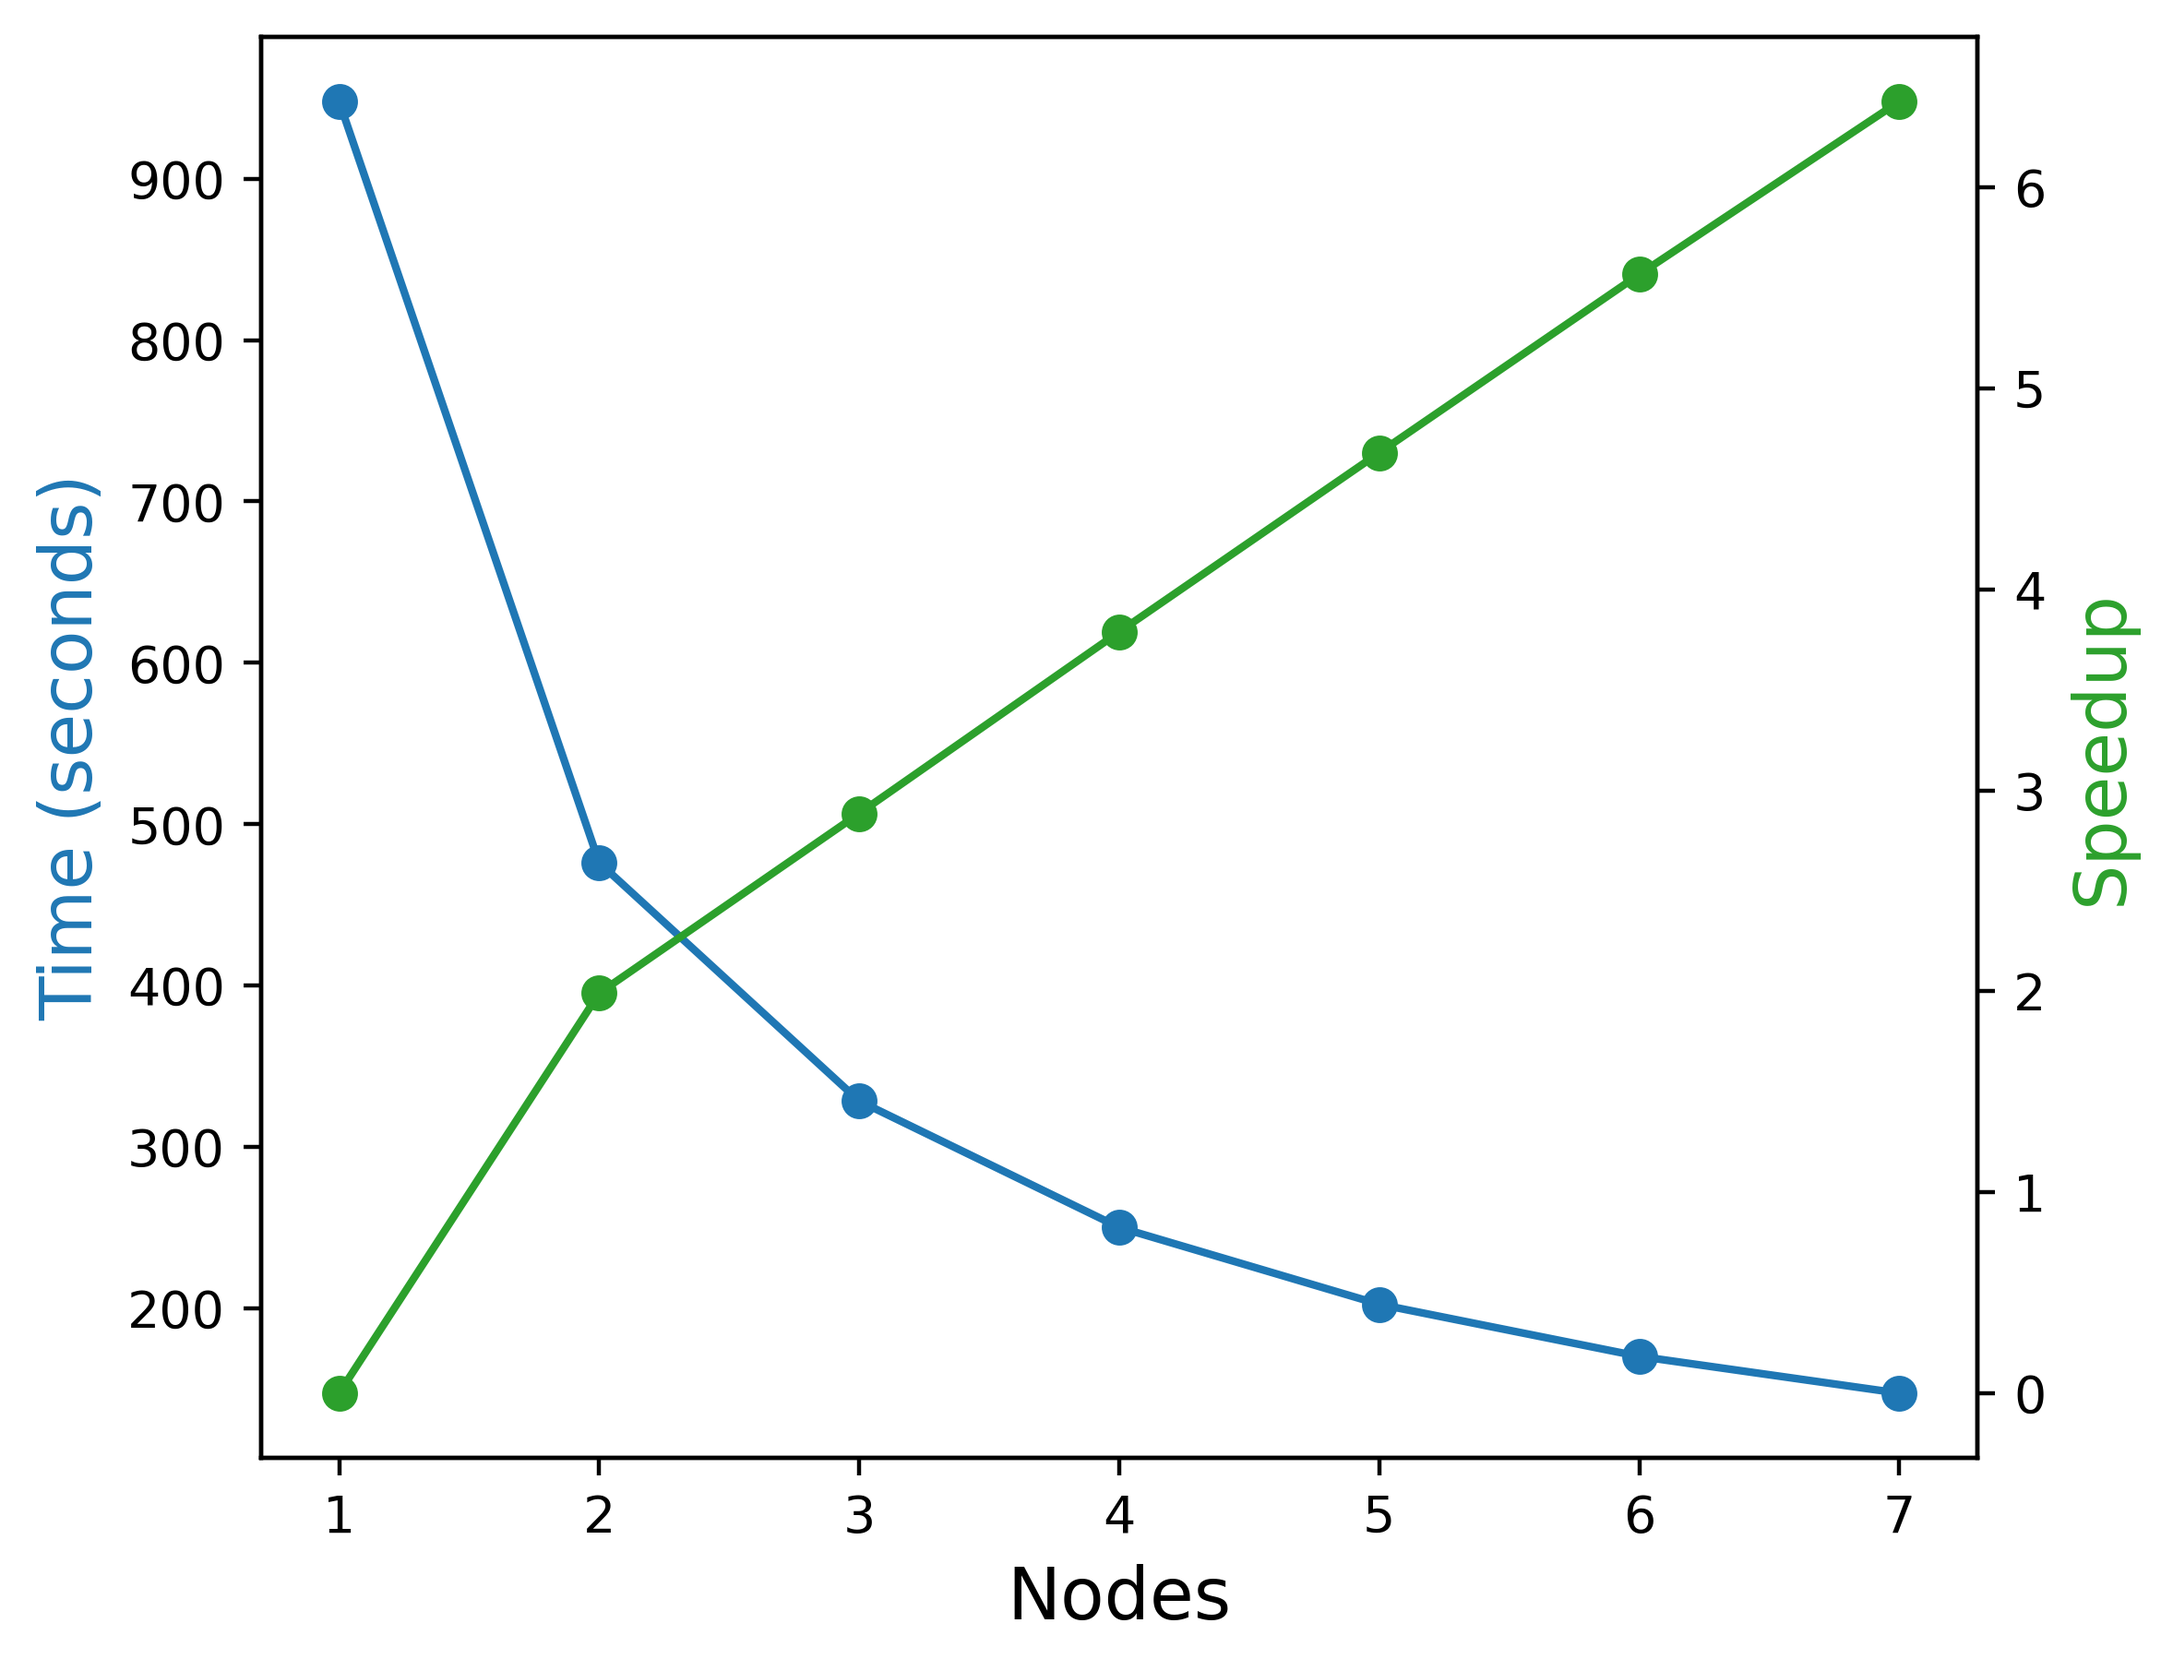
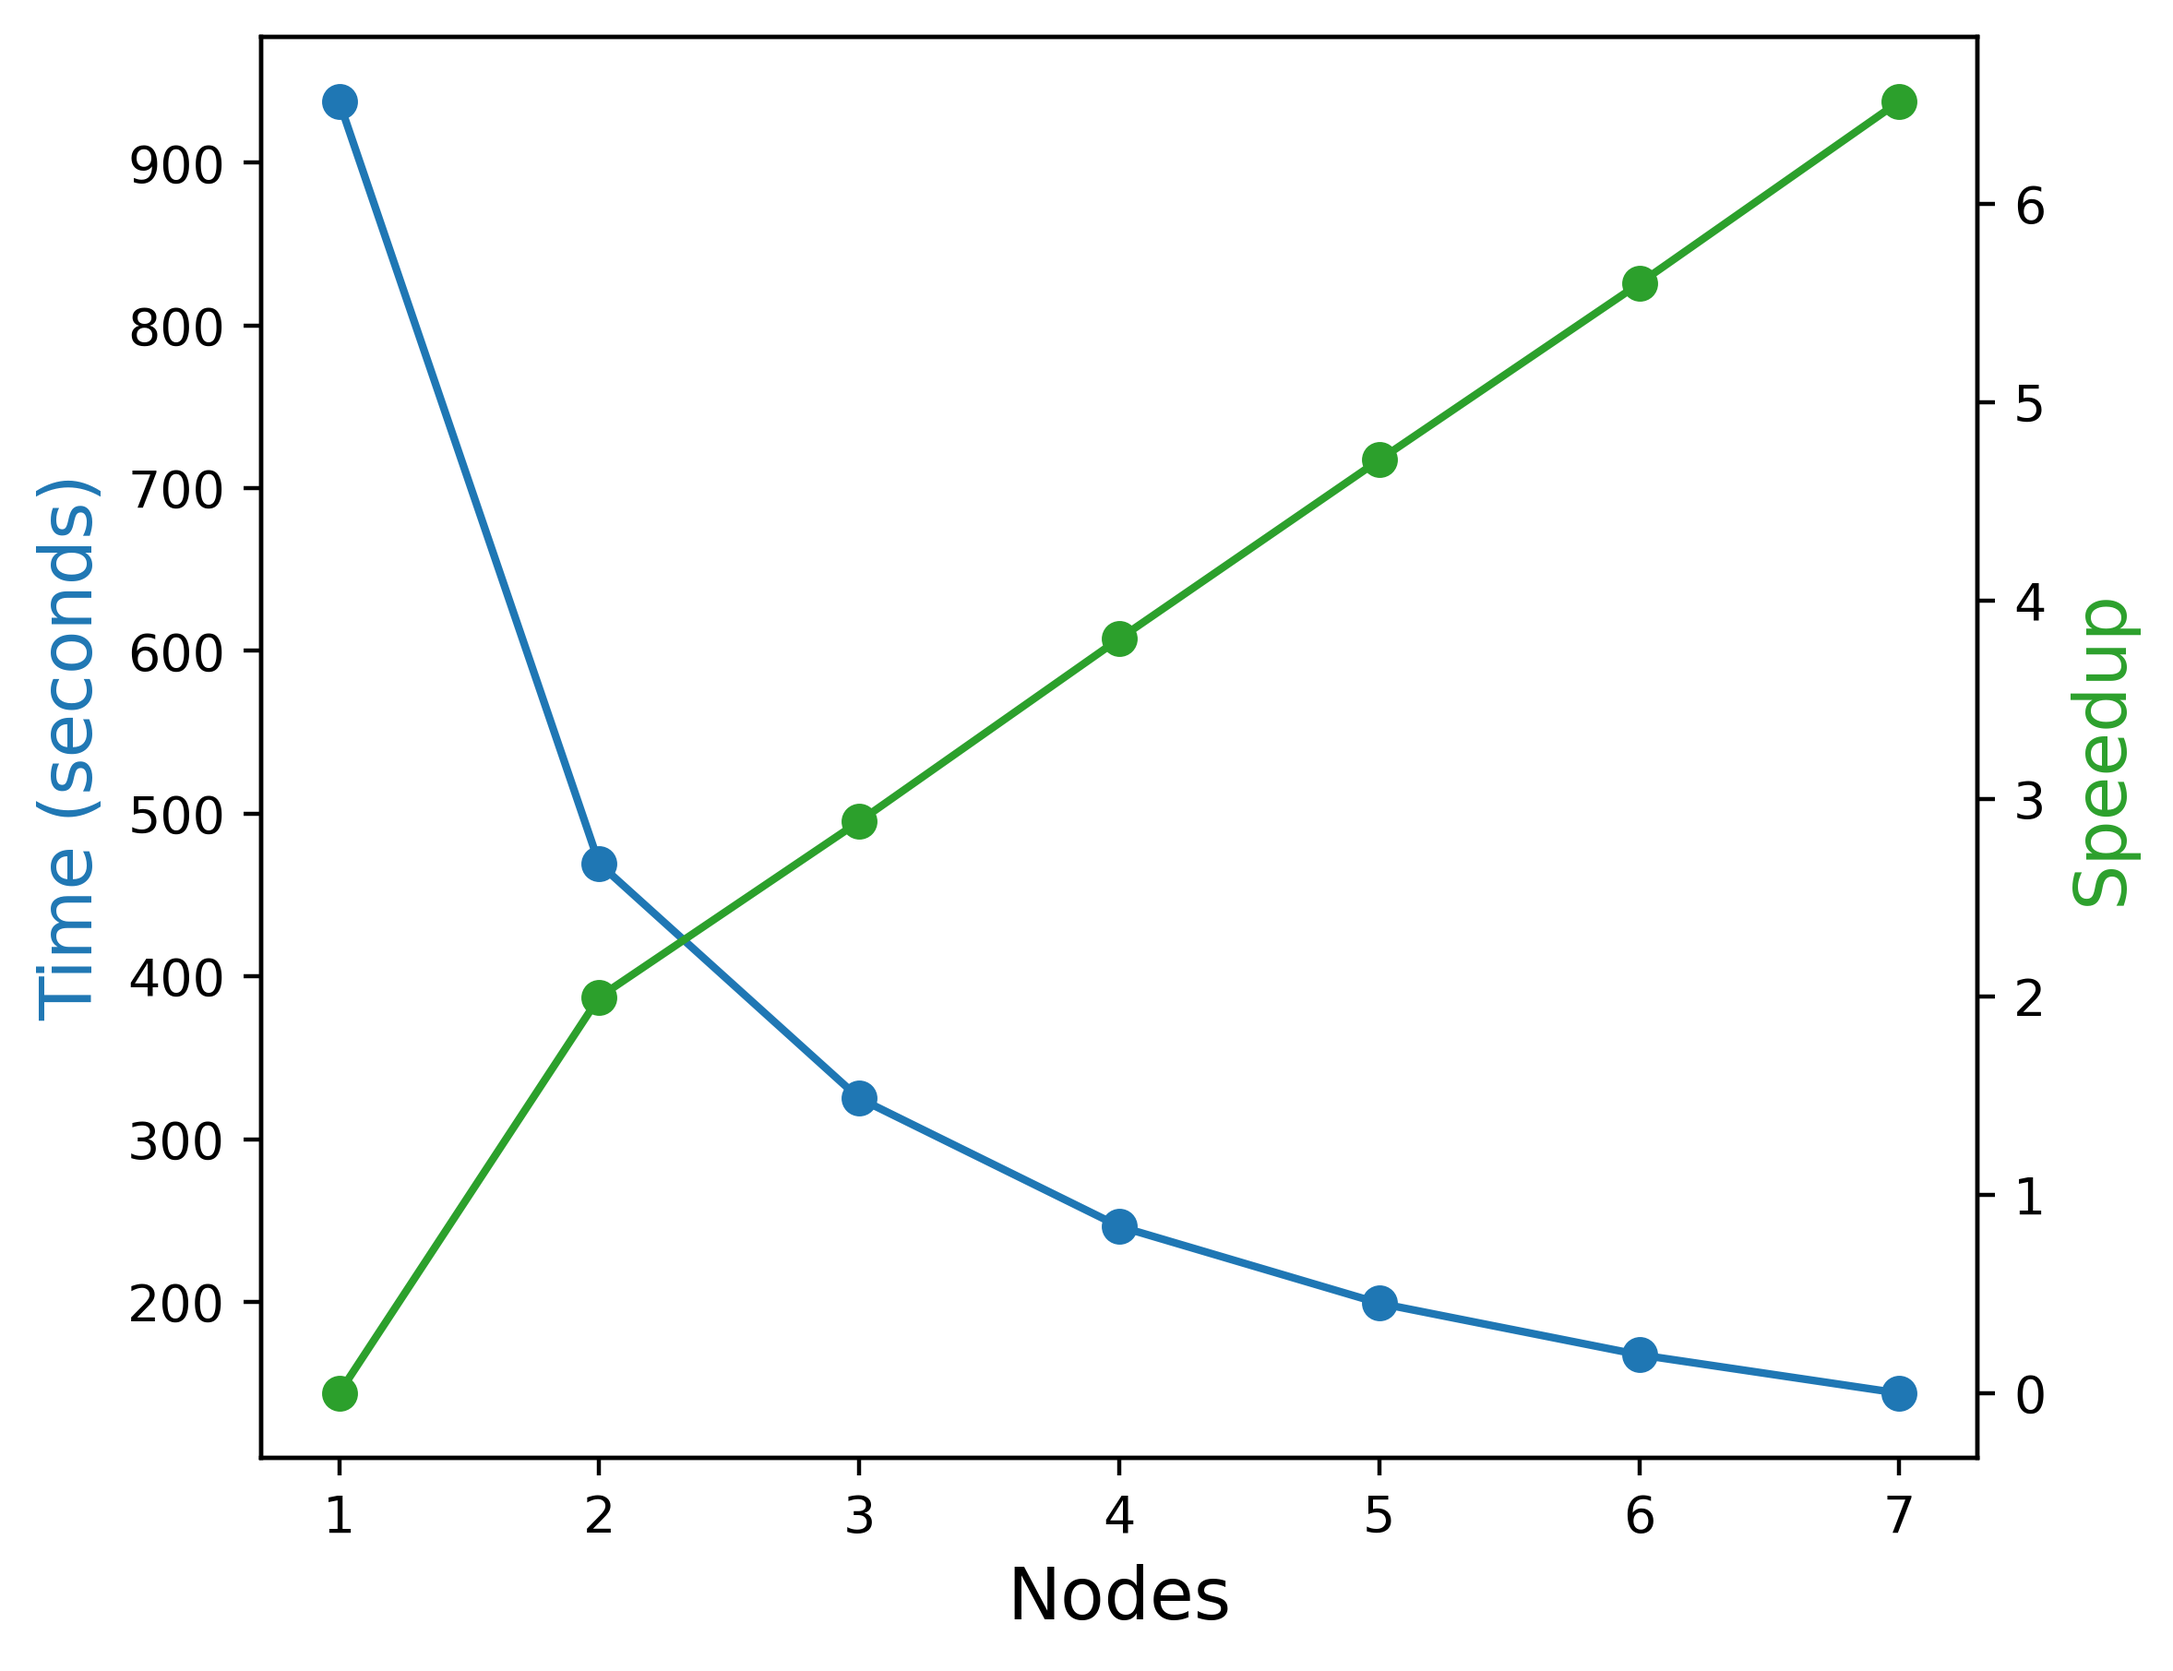
redo multinode run with 40 cores, get basically same result

diff --git a/scripts/avg.py b/scripts/avg.py
@@ -1,0 +1,99 @@
+#!/usr/bin/env python3
+import sys
+
+if len(sys.argv) < 2:
+	print("You need to supply ./avg.py <input-files> <output-file>")
+	sys.exit(1)
+
+input_files = []
+for i in sys.argv[1:len(sys.argv)-1]:
+	input_files.append(i)
+
+output_file=sys.argv[len(sys.argv)-1]
+
+
+print(f"Gonna average these files: {input_files} -> {output_file}")
+
+
+def process_line(l:str) -> list:
+	ls=l.split("|")
+	if len(ls) < 3 or l[0] != '|':
+		return []
+	
+	data=[]
+	i=1
+	while i < len(ls)-1:
+		data.append(ls[i])
+		i += 1
+	return data
+	
+
+def file_to_dict(f: str) -> list:
+	out=[]
+	with open(f, 'r') as file:
+		for line in file:
+			lp=process_line(line)
+			if len(lp) == 0:
+				continue
+			out.append(lp)
+	
+	return out
+	
+
+def merge_rows(r: list) -> list:
+	num_cols=len(r[0])
+	col_to_merge=num_cols-1
+
+	tmpl_row=r[0].copy()
+	tmpl_row[col_to_merge] = 0;
+	for row in r:
+		print(row[col_to_merge])
+		tmpl_row[col_to_merge] += float(row[col_to_merge])
+	
+	tmpl_row[col_to_merge] /= float(len(r));
+	return tmpl_row
+		
+#reduces order
+#Takes in a list of lists of lists, reduces to a list of lists
+def average_dls(l:list) -> list:
+	# remove header
+	num_of_rows = len(l[0])-1
+	num_of_cols = len(l[0][0])
+	
+	num_of_files = len(l);
+
+	output_arr = []
+	# add header to file
+	output_arr.append(l[0][0])
+
+	for r in range(1,num_of_rows):
+		uncomb_rows=[]
+		for fi in range(0,num_of_files):
+			uncomb_rows.append(l[fi][r])
+		row=merge_rows(uncomb_rows)
+		output_arr.append(row)
+			
+
+	return output_arr
+	
+	
+
+ds=[]
+for f in input_files:
+	d=file_to_dict(f);
+	ds.append(d)
+
+out_dict=average_dls(ds);
+print(f"Post average:{out_dict}")
+
+def postprocess(d:list) -> str:
+	s=""
+	for line in d:
+		for e in line:
+			s+='|'
+			s+=str(e)
+		s+="|\n"
+	return s
+
+with open(output_file, "w") as file:
+    file.write(postprocess(out_dict))

diff --git a/scripts/graph.py b/scripts/graph.py
@@ -43,8 +43,8 @@ with open(file) as f:
         speedup.append(s)
         speedup_ahmd.append(first_time/(12 + (first_time-12)/(c)))
 
-#xlabel = 'Nodes'
-xlabel = 'Cores'
+xlabel = 'Nodes'
+#xlabel = 'Cores'
 fig, ax1 = plt.subplots(figsize=(6,5))
 ax2 = ax1.twinx()
 bloo='#1f77b4'
